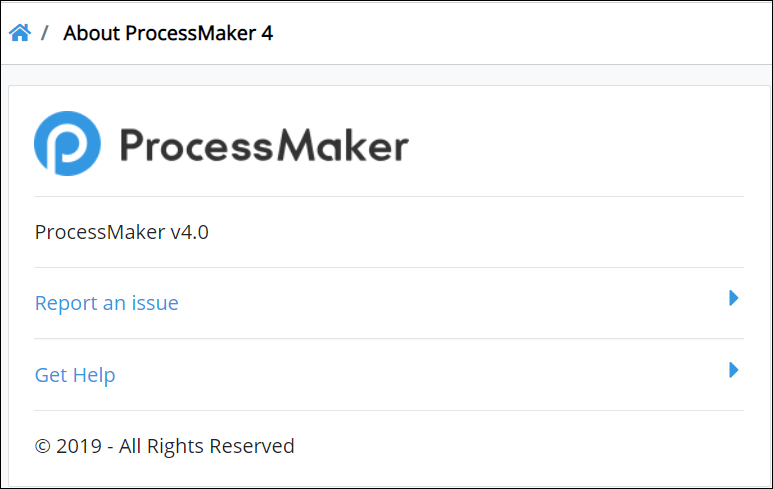
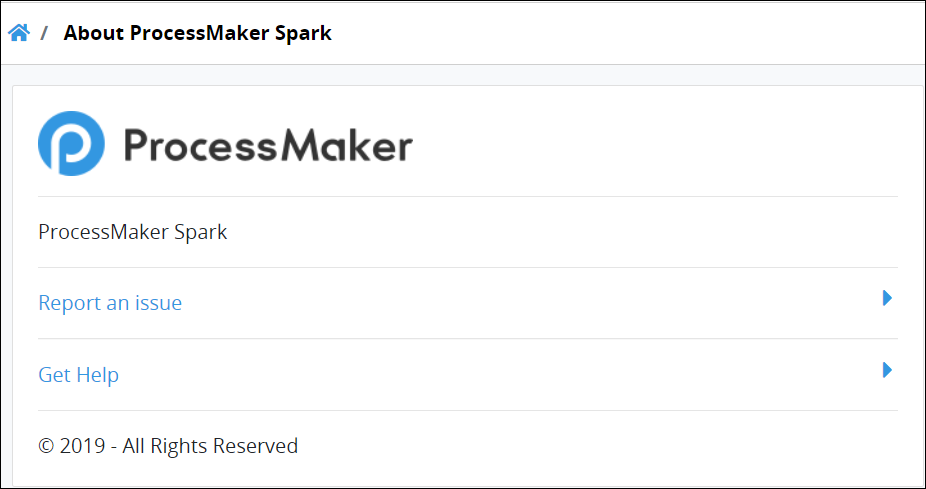
GitBook: [processmaker] 6 pages and 3 assets modified

diff --git a/using-processmaker/profile-settings.md b/using-processmaker/profile-settings.md
@@ -61,7 +61,7 @@ Follow these steps to change your profile settings:
 5. Follow these guidelines to change your password if necessary:
    * In the **New Password** field, enter your new password. Leave the **New Password** field blank to keep the current password. Password validation indicates how strong your password is if you enter a new password.
    * In the **Confirm Password** field, confirm that the password matches that entered into the **New Password** field if a new password is entered. If you entered a new password, password validation indicates if the **New Password** and **Confirm Password** values do not match.
-6. Click **Update**. The following message displays: **Save profile success**.
+6. Click **Save**. The following message displays: **Your profile was saved**.
 
 ## View Another User's Profile Information
 
@@ -69,7 +69,7 @@ To view another user's profile information, click that person's avatar.
 
 ![Click a user&apos;s avatar to view that person&apos;s user profile information](../.gitbook/assets/hover-over-a-user-avatar-for-profile-full-name.png)
 
-After clicking the avatar, that person's profile information displays. Each user is responsible for profile content.
+After clicking the avatar, that person's profile information displays. Each ProcessMaker user is responsible for profile content.
 
 ![Viewing a user&apos;s profile information](../.gitbook/assets/profile-displayed-after-clicking-avatar.png)
 
@@ -82,4 +82,6 @@ Hover your cursor over a user's avatar to view that person's full name.
 {% page-ref page="application-version-details.md" %}
 
 {% page-ref page="log-out.md" %}
+
+{% page-ref page="../processmaker-administration/add-users/manage-user-accounts/create-a-user-account.md" %}
 

diff --git a/using-processmaker/requests/make-a-request.md b/using-processmaker/requests/make-a-request.md
@@ -19,16 +19,16 @@ Follow these steps to start a Request:
 
 3. Do one of the following:
 
-   * Select the Process from which to start a new Request.
-   * From the **Search** field, enter text to filter the list of Processes, and then select the Process from which to start a new Request. See [Search for a Request](search-for-a-request.md) for more information.
+   * Select the Process to start a new Request.
+   * From the **Search** field, enter text to filter the list of Processes, and then select the Process to start a new Request. See [Search for a Request](search-for-a-request.md) for more information.
 
    The Process you selected starts a Request.
 
 {% hint style="info" %}
-If there are no active Processes or you are not authorized to start a Request for a Process, the following message displays: **You don't have any Processes. Please visit the Processes page and click on +Process to get started.**
+If there are no active Processes or you are not authorized to start a Request for a Process, the following message displays: **You don't have any Processes. Please contact your administrator to get started.**
 {% endhint %}
 
-After the Request starts, the new Request displays in the [**My Requests** page](view-started-requests.md#view-requests-you-started).
+After the Request starts, the Request you started displays in the [**My Requests** page](view-started-requests.md#view-requests-you-started).
 
 ## Related Topics
 

diff --git a/designing-processes/viewing-processes/view-the-list-of-processes/remove-a-process.md b/designing-processes/viewing-processes/view-the-list-of-processes/remove-a-process.md
@@ -2,13 +2,13 @@
 description: Archive a Process that is no longer needed in your organization.
 ---
 
-# Archive an Inactive Process
+# Archive a Process
 
 ## Overview
 
 An archived Process has the following attributes:
 
-* Archived Processes are disabled and inactive until they are [restored](restore-a-process.md#restore-a-process).
+* Archived Processes are disabled until they are [restored](restore-a-process.md#restore-a-process).
 * All archived Processes in the organization are accessible from the **Process Archive** page. See [View Archived Processes](remove-a-process.md#view-archived-processes).
 * A Process with in-progress Requests can be archived. In-progress Requests will complete.
 
@@ -60,10 +60,6 @@ Your user account or group membership must have the following permissions to arc
 * Processes: Edit Processes
 
 See the [Process](../../../processmaker-administration/permission-descriptions-for-users-and-groups.md#processes) permissions or ask your ProcessMaker Administrator for assistance.
-{% endhint %}
-
-{% hint style="warning" %}
-When a Process is archived ~~describe what happens and in which conditions a process can be removed.~~
 {% endhint %}
 
 Follow these steps to archive a Process:

diff --git a/SUMMARY.md b/SUMMARY.md
@@ -42,7 +42,7 @@
     * [Search for a Process](designing-processes/viewing-processes/view-the-list-of-processes/search-for-a-process.md)
     * [Configure a Process](designing-processes/viewing-processes/view-the-list-of-processes/edit-the-name-description-category-or-status-of-a-process.md)
     * [Export a BPMN-Compliant Process](designing-processes/viewing-processes/view-the-list-of-processes/export-a-bpmn-compliant-process.md)
-    * [Archive an Inactive Process](designing-processes/viewing-processes/view-the-list-of-processes/remove-a-process.md)
+    * [Archive a Process](designing-processes/viewing-processes/view-the-list-of-processes/remove-a-process.md)
     * [Restore a Process](designing-processes/viewing-processes/view-the-list-of-processes/restore-a-process.md)
   * [Process Categories](designing-processes/viewing-processes/process-categories.md)
 * [Script Management](designing-processes/scripts/README.md)

diff --git a/using-processmaker/application-version-details.md b/using-processmaker/application-version-details.md
@@ -15,12 +15,12 @@ Follow these steps to view ProcessMaker Spark version information:
 
    ProcessMaker Spark version information displays.  
 
-![ProcessMaker 4 version information](../.gitbook/assets/about-processmaker-page-admin.png)
+![ProcessMaker Spark version information](../.gitbook/assets/about-processmaker-page-admin.png)
 
 {% hint style="info" %}
 Click **Report an issue** to [report a ProcessMaker Spark issue](https://docs.google.com/forms/d/e/1FAIpQLScnYje8uTACYwp3VxdRoA26OFkbfFs6kuXofqY-QXXsG-h9xA/viewform).
 
-Click **Get Help** to display the [ProcessMaker **bpm** GitHub repository](https://github.com/ProcessMaker/bpm).
+Click **Get Help** to display the [ProcessMaker **spark** GitHub repository](https://github.com/ProcessMaker/spark).
 {% endhint %}
 
 ## Related Topics

diff --git a/using-processmaker/log-out.md b/using-processmaker/log-out.md
@@ -8,9 +8,9 @@ description: Log out of ProcessMaker.
 
 Click your user avatar and then select **Log Out**.
 
-![Log Out option to log out of ProcessMaker 4](../.gitbook/assets/log-out-option.png)
+![Log Out option to log out of ProcessMaker Spark](../.gitbook/assets/log-out-option.png)
 
-You are logged out of ProcessMaker 4.
+You are logged out of ProcessMaker Spark.
 
 ## Related Topics
 
